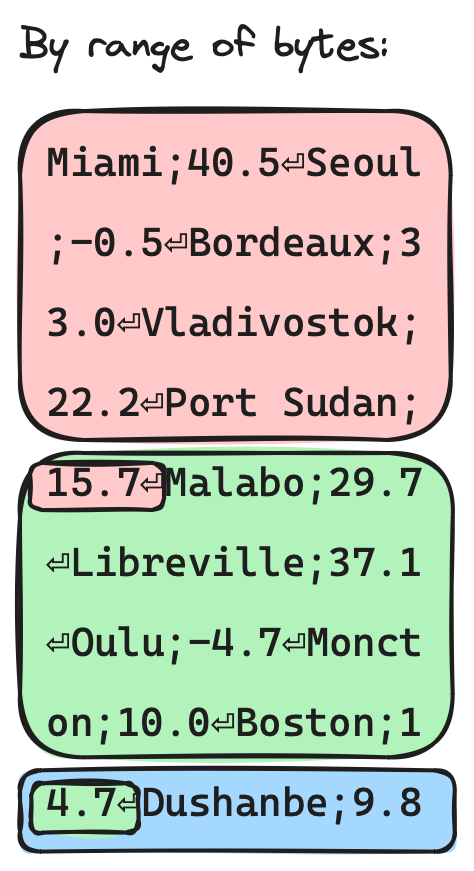
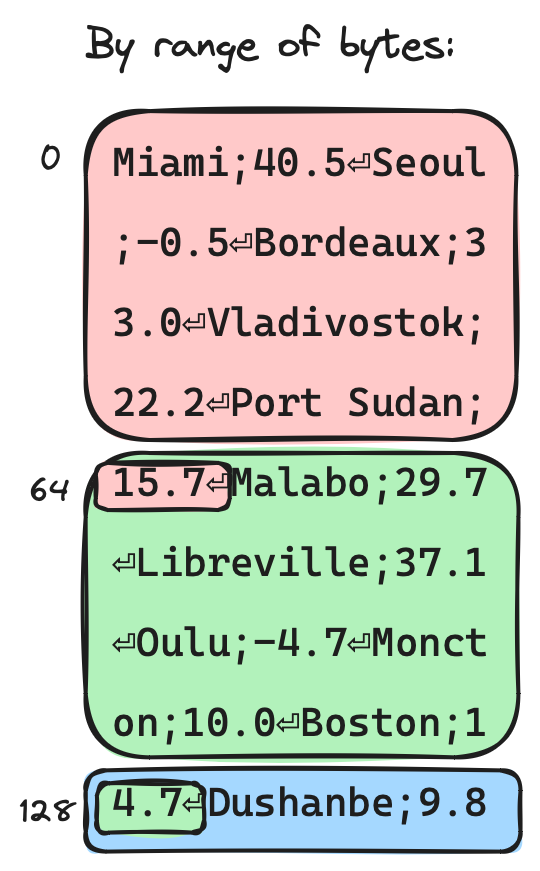
Tweaks

Changed region(s): [[0.0295, 0.124, 0.9747, 0.992], [0.0295, 0.031, 0.8565, 0.093], [0.2068, 0.341, 0.8861, 0.403]]

diff --git a/slides.md b/slides.md
@@ -119,16 +119,6 @@ So we have a Ruby program - how do we measure how fast it is?
 
 The simplest tool is one you already have - it's built into your shell. You can prepend `time` to any command.
 
-Demo:
-time ./001_baseline.rb measurements_1M.txt
-
-I'm running this with an input file with only 1 million lines for the sake of time.
-
-If I run it multiple times, you'll see that the time is different on each run - there's some noise in the measurements.
-
-That can be a bit of a trap when you're trying to determine if a change you just made improved the performance - it's quite easy to trick yourself into thinking something has worked. Ideally you want to do multiple runs and average them.
-
-There's tool I found called hyperfine that automates this, and it can also compare different commands and tell you the relative performance difference. I'll give a demo of that soon.
 -->
 
 ---
@@ -137,6 +127,17 @@ There's tool I found called hyperfine that automates this, and it can also compa
 
 <div class="asciinema" data-url="baseline.cast"></div>
 
+<!--
+
+I'm running this with an input file with only 1 million lines for the sake of time.
+
+If I run it multiple times, you'll see that the time is different on each run - there's some noise in the measurements.
+
+That can be a bit of a trap when you're trying to determine if a change you just made improved the performance - it's quite easy to trick yourself into thinking something has worked. Ideally you want to do multiple runs and average them.
+
+There's tool I found called hyperfine that automates this, and it can also compare different commands and tell you the relative performance difference. I'll give a demo of that next.
+
+-->
 ---
 
 # Baseline
@@ -199,20 +200,15 @@ Enter:
 
 # Profiling
 
-- Tracing
-    - ruby-prof - https://ruby-prof.github.io/
-- Sampling
-    - Stackprof - https://github.com/tmm1/stackprof
-    - rbspy - https://rbspy.github.io/
-
-<!-- For Ruby, there are two broad classes of profiling tool -->
+- Analyse the performance of a running program and see where it's spending its time
+- Stackprof - https://github.com/tmm1/stackprof
+- rbspy - https://rbspy.github.io/
 
 <!--
-Tracing tools like ruby-prof hook into Ruby's tracepoint API, which fires an event on every line that executes. This is high overhead - ruby-prof documentation says it typically makes programs run about 2x slower.
 
-Sampling tools work by periodically (say 100 times a second) observing the current callstack of the process and recording what methods are currently executing.
+A profiler is a tool that helps you analyse the performance of a running program.
 
-Sampling gives a good picture of what the program is spending time doing. However it can't tell you things like exactly how many times a method was called, or diffentiate between between a slow function and a frequently called function.
+These are both sampling profilers: they work by periodically (hundreds of times a second) observing the current callstack of the process and recording which methods are currently executing.
 -->
 
 <!--
@@ -239,6 +235,13 @@ stackprof --d3-flamegraph stackprof.dump > flamegraph.html
 </div>
 
 <!--
+What are we looking at here?
+
+The width of the boxes is the percentage of time
+The y-axis is the callstack
+
+(compare with 002 yjit code)
+
 * The slowest method we're using is String#split (37% of time)
 * We're spending 11% of time in GC
 
@@ -257,6 +260,9 @@ Let's see what we can do about both of those. I'm going start by looking at the 
 A quick refresher on garbage collection
 
 (talk through slide)
+
+Your program stops while the garbage collector is running. The best way to reduce the amount of time spend in GC is
+to reduce the amount of garbage by allocating fewer objects.
 -->
 
 ---
@@ -276,7 +282,7 @@ end
 
 You can use GC stat total allocated objects to get the total number of objects that have been allocated so far, and you can compare it before and after to measure a particular block of code.
 
-I measure this line, and there are 4 allocations. Anyone got any guesses what they might be?
+I measured this line, and there are 4 allocations. Anyone got any guesses what they might be?
 
 array, 2x string, unfrozen string literal
 
@@ -310,7 +316,7 @@ My CPU has 6 cores (12 threads), but we're only using one!
     - Each Ractor can execute Ruby code in parallel
     - Experimental
 
-<!-- We should be able to get at least a 6x performance gain -->
+<!-- With 6 cores, we should be able to get at least a 6x performance gain -->
 
 <!-- What are options for parallel execution in Ruby? -->
 
@@ -320,23 +326,18 @@ My CPU has 6 cores (12 threads), but we're only using one!
 
 # Going parallel
 
-Divide the work
-- By line
-    - Simple, but high coordination overhead
-- By range of lines
-    - The lines are different lengths, so we can't seek to the byte offset of a specific line
-- By range of bytes
-    - We could end up starting in the middle of a line
+Divide the work - by line?
+- Simple, but high coordination overhead
 
 ![bg right fit](parallel-by-line.png)
 
 <!--
 
-We need a strategy for dividing the work, and we need to be able to merge it back together.
+We need a strategy for dividing the work. There a few options, each with different challanges.
 
-For dividing the work, there a few options, each with different challanges.
+The first one is dividing by line - we could go through and farm out each line one-by-one to the parallel workers.
 
-(read through slide)
+That's going to be super high overhead. Communicating a piece of work to a worker process isn't free, and if we have to do it 1 billion times, it's going to add up.
 
 -->
 
@@ -344,30 +345,26 @@ For dividing the work, there a few options, each with different challanges.
 
 # Going parallel
 
-Divide the work
-- By line
-    - Simple, but high coordination overhead
-- By range of lines
-    - The lines are different lengths, so we can't seek to the byte offset of a specific line
-- By range of bytes
-    - We could end up starting in the middle of a line
+Divide the work - by range of lines?
+- The lines are different lengths, so we can't seek to the byte offset of a specific line
 
 ![bg right fit](parallel-by-range-of-lines.png)
+
+<!--
+So what if we could do chunks of lines instead?
+
+We'd have to scan through the entire file to locate the line endings first - not really an efficient option either.
+-->
 
 ---
 
 # Going parallel
 
-Divide the work
-- By line
-    - Simple, but high coordination overhead
-- By range of lines
-    - The lines are different lengths, so we can't seek to the byte offset of a specific line
-- By range of bytes
-    - We could end up starting in the middle of a line
+Divide the work - by range of bytes?
+- We could end up starting in the middle of a line
+- ...but there's a neat trick
 
 ![bg right fit](parallel-by-range-of-bytes.png)
-
 
 ---
 
@@ -376,7 +373,7 @@ Divide the work
 <!--
 (open up 005_parallel_processes.rb)
 
-I'm using the parallel gem here for the sake of readability, but internally that's calling Process.fork and using IO.pipe and Marshal to communicate with the child processes.
+I'm using the parallel gem here for the sake of readability, but internally that's calling Process.fork and using IO.pipe to communicate with the child processes.
 -->
 
 ---
@@ -388,7 +385,7 @@ I'm using the parallel gem here for the sake of readability, but internally that
 ![center](fig6.svg)
 
 <!--
-Ruby is a bit over twice as slow as the middle-of-the-road Java implementation. That's honestly better than I was expecting - this sort of CPU-intensive work isn't not something Ruby is great at.
+Ruby is a bit over twice as slow as the middle-of-the-road Java implementation. That's honestly better than I was expecting - this sort of CPU-intensive work isn't something Ruby is great at.
 
 So what about Ractors - they should be even faster because everything happens within the one Ruby process.
 -->
@@ -402,6 +399,10 @@ So what about Ractors - they should be even faster because everything happens wi
 
 ![center](fig7.svg)
 
+<!--
+So very much experimental.
+-->
+
 ---
 
 # Can we go further?
@@ -409,11 +410,11 @@ So what about Ractors - they should be even faster because everything happens wi
 <div class="asciinema" data-url="rbspy-004.cast"></div>
 
 <!--
-Let's run the profiler again and see what the bottleneck is now.
+Let's run a profiler again on the processes version, and see what the bottleneck is now.
 
 I've switched to using rbspy this time, because it has better support for recording multiple subprocesses.
 
-The slowest thing is now each_line, but what can we do instead?
+The slowest thing is now #each_line, but what can we do instead?
 -->
 
 ---
@@ -696,13 +697,13 @@ It's important to keep in mind that different computers have different performan
 
 Even in production, machines from different generations will behave differently.
 
-I'm not saying don't do any optimisation work locally, but it's something you should conscious of.
+It's something you should conscious of.
 -->
 ---
 
 # On your machine vs production
 
-- AMD Ryzen 5 2600 desktop (mid-range 2018 CPU, 6 cores)
+- AMD Ryzen 5 2600 desktop (mid-range 2018 CPU, 6 cores, 12 threads)
 - M2 MacBook Air (2022, 8 cores: 4 performance, 4 efficiency)
 
 ![center h:480](thermal.svg)
